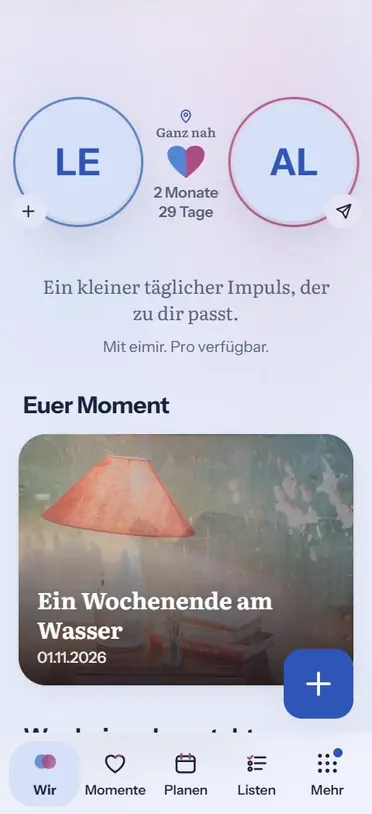
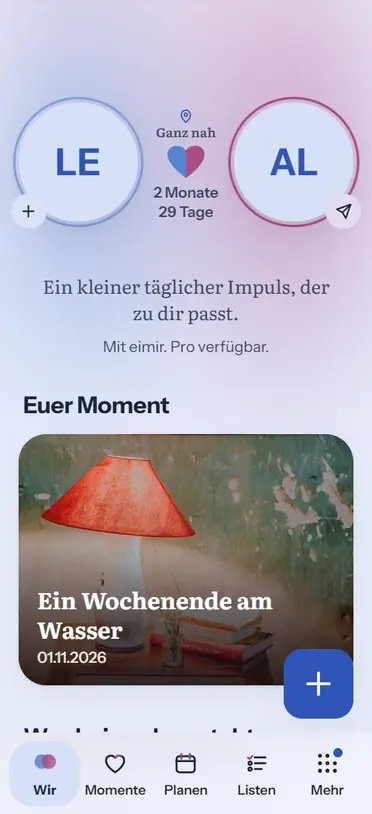
fix(web): keep the Wir light visible in Light mode
The Light strength from #2224 faded the person colours until the light was
almost invisible. The light now uses a strong tint in both themes. In Light,
the quiet text in the hero and the daily quote becomes firmer instead, so
small text keeps at least 4.5:1.

Refs #1792

diff --git a/web/src/components/WirHeroStage.css b/web/src/components/WirHeroStage.css
@@ -425,10 +425,8 @@
   --wir-distance-bleed: var(--page-gutter, var(--space-4));
   /* Past the screen edge above any header, and past the tallest glow. */
   --wir-distance-reach: calc(var(--wir-avatar) * 2.9);
-  /* The person colours are deep on a light page, so the light takes less of
-     them there and the text on it stays readable. */
-  --wir-distance-glow-tone: 24%;
-  --wir-distance-shared: 0.2;
+  --wir-distance-glow-tone: 74%;
+  --wir-distance-shared: 0.6;
 
   position: absolute;
   z-index: -1;
@@ -440,13 +438,45 @@
 
 :root[data-theme="dark"] .wir-distance-light {
   --wir-distance-glow-tone: 66%;
-  --wir-distance-shared: 0.6;
 }
 
 @media (prefers-color-scheme: dark) {
   :root:not([data-theme="light"]) .wir-distance-light {
     --wir-distance-glow-tone: 66%;
-    --wir-distance-shared: 0.6;
+  }
+}
+
+/* On a light page the visible light darkens the ground, so the quiet text on
+   it becomes firmer instead of the light becoming faint. */
+:root[data-theme="light"]
+  .today-page:has(.wir-distance-light)
+  :is(.wir-stage, .daily-quote-card) {
+  --color-text-muted: color-mix(
+    in srgb,
+    var(--color-text) 82%,
+    var(--color-background)
+  );
+  --color-text-secondary: color-mix(
+    in srgb,
+    var(--color-text) 82%,
+    var(--color-background)
+  );
+}
+
+@media (prefers-color-scheme: light) {
+  :root:not([data-theme="dark"])
+    .today-page:has(.wir-distance-light)
+    :is(.wir-stage, .daily-quote-card) {
+    --color-text-muted: color-mix(
+      in srgb,
+      var(--color-text) 82%,
+      var(--color-background)
+    );
+    --color-text-secondary: color-mix(
+      in srgb,
+      var(--color-text) 82%,
+      var(--color-background)
+    );
   }
 }
 

diff --git a/docs/product/design/references/wir-hero-heart-light/README.md b/docs/product/design/references/wir-hero-heart-light/README.md
@@ -20,8 +20,8 @@ needed a clearer presentation without taking a place of its own.
   closer, wider glows and a shared light in the middle fade in.
 - **The light has no visible end.** It lies behind the page content, reaches past
   the status bar to the screen edge and fades out inside the next module, so it
-  never reads as a band. Light and Dark use their own strength so that the small
-  text on it keeps at least 4.5:1.
+  never reads as a band. It stays clearly visible in Light too: there, the quiet
+  text on it becomes firmer, so that small text keeps at least 4.5:1.
 - **No connecting line** between the portraits in the Verbunden hero.
 - **No visible first names in the Wir hero**, and nothing else changes: names
   stay everywhere else, accessible names stay, portraits without a photo keep

diff --git a/docs/product/design/evidence/wir-hero-heart-light/README.md b/docs/product/design/evidence/wir-hero-heart-light/README.md
@@ -21,7 +21,7 @@ both portrait rings at 320, 360, 390 and 430 CSS px and at 130 % and 200 % text.
 
 The light reaches the top screen edge and fades out inside the next module. The
 worst contrast of the small hero text on the painted light at 390 CSS px is
-4.55:1 in Light and 4.70:1 in Dark, both at the closest band. After a hop, no
+5.28:1 in Light and 4.70:1 in Dark, both at the closest band. After a hop, no
 light stays visible on the portraits.
 
 Not covered here: the native Android WebView on a device, and a recording of
